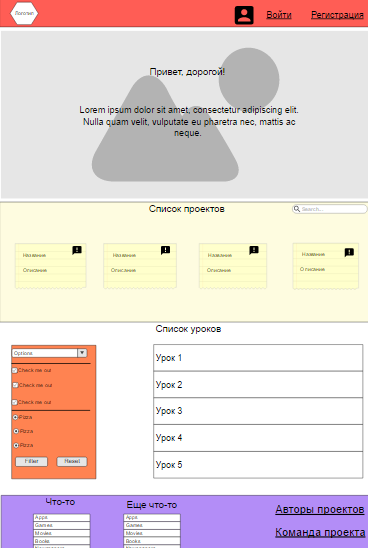
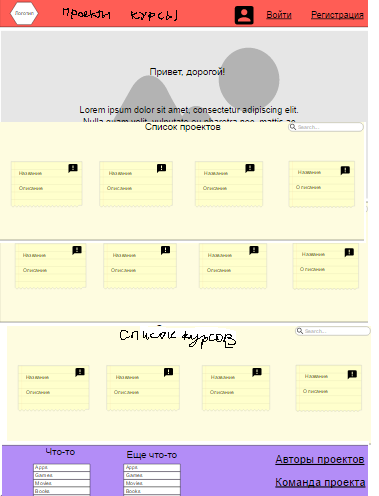
update sketches from monday meetup

diff --git a/docs/courses/courses.md b/docs/courses/courses.md
@@ -19,3 +19,5 @@
         </tr>
     </tbody>
 </table>
+
+![Страница курса](https://github.com/lanit-tercom-school/studit/blob/master/docs/courses/course.jpg "Страница курса")
